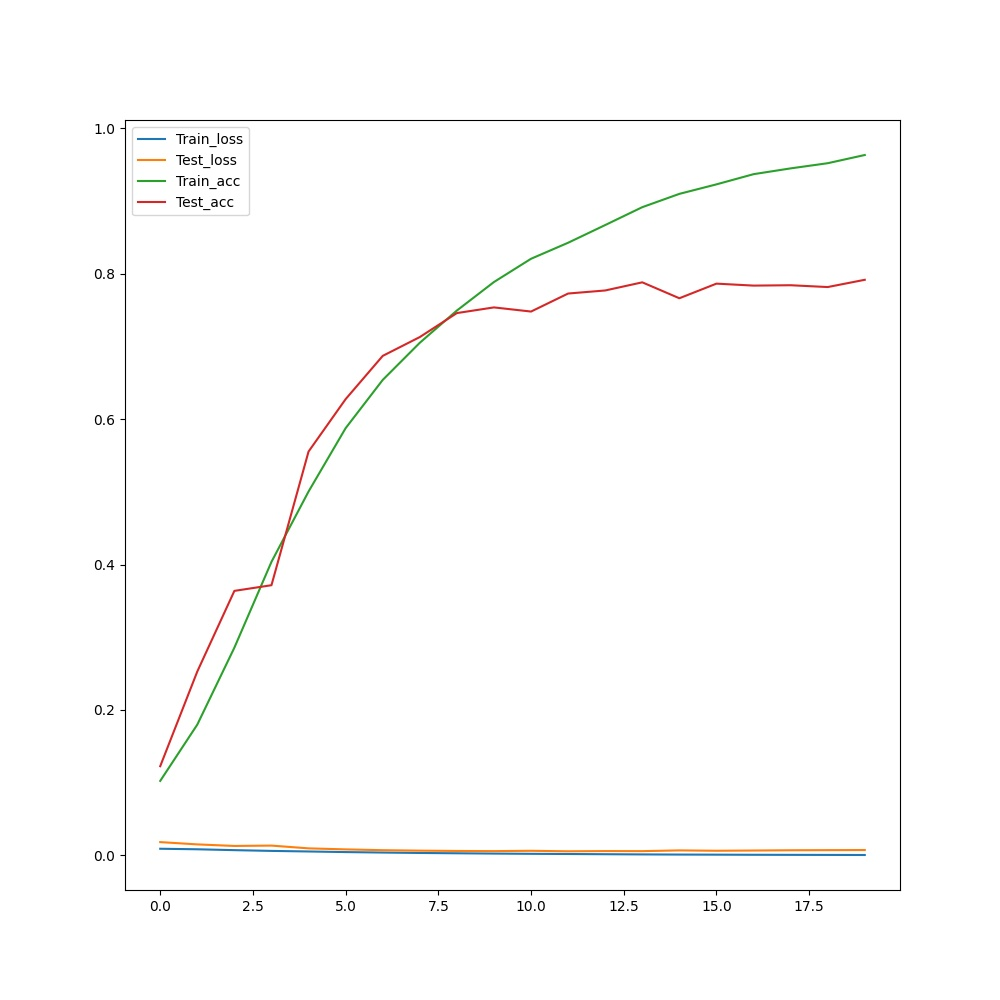
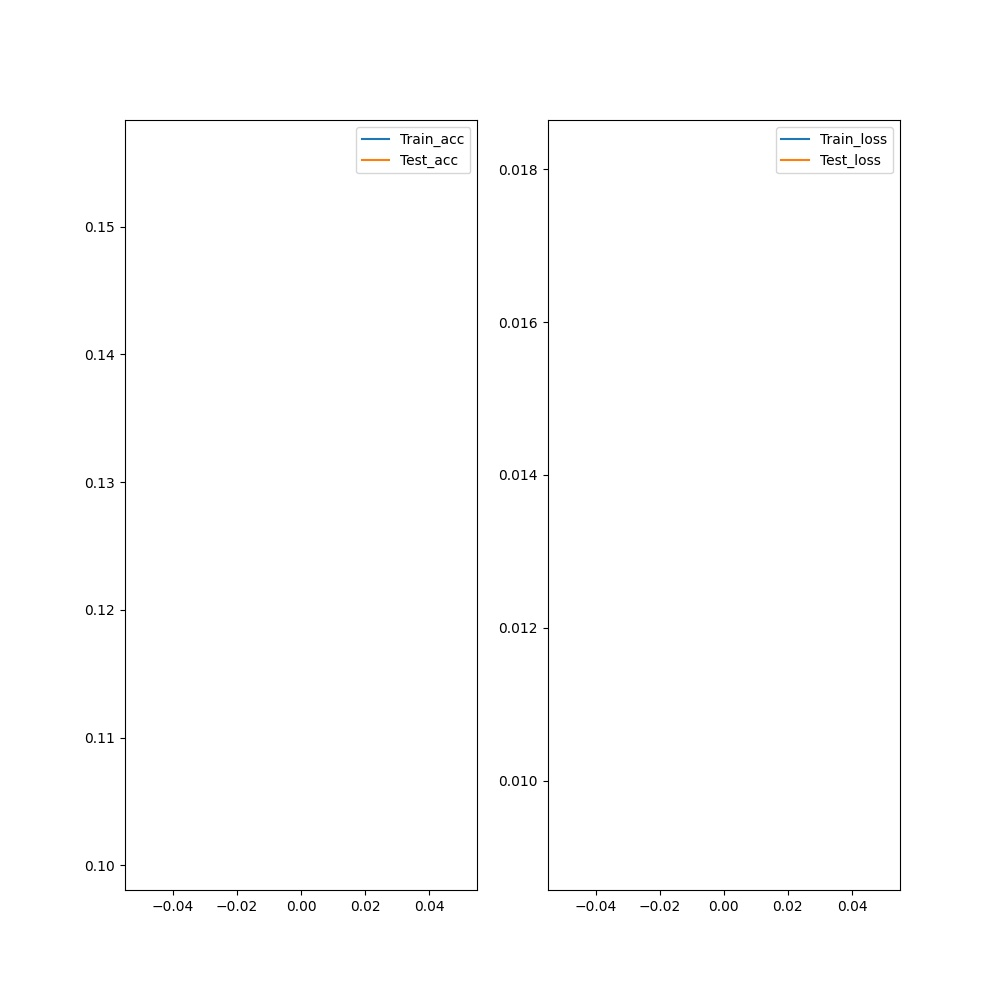
Update

diff --git a/3. Model/classification/VGG/train.py b/3. Model/classification/VGG/train.py
@@ -1,4 +1,5 @@
 import argparse
+import os
 
 import torch
 import torch.nn as nn
@@ -11,8 +12,7 @@ from torchvision.datasets import CIFAR10, MNIST
 import matplotlib.pyplot as plt
 
 from model import VGG
-from utils import save_result
-
+from utils import save_result, make_folder
 
 def parse_opt():
     parser = argparse.ArgumentParser()
@@ -28,7 +28,7 @@ def parse_opt():
     parser.add_argument('--momentum', help='Momentum', default=0.9, type=float)
     parser.add_argument('--cuda', help='Using GPU', default=True, type=bool)
     parser.add_argument('--save_result', help='Save Result of Train&Test', default=True, type=bool)
-    parser.add_argument('--save_folder', help='Directory of Saving weight', default='', type=str)
+    parser.add_argument('--save_folder', help='Directory of Saving weight', default='train0', type=str)
     opt = parser.parse_args()
     
     return opt
@@ -54,7 +54,7 @@ def train(model, dataloader, optimizer, loss_func, device, e):
         iter_loss.append(loss.item())
         corrects += sum(outputs.argmax(axis=1) == labels).item()
 
-        if (i+1) % 40 == 0:
+        if ((i+1) % 40 == 0) or ((i+1) == len(dataloader)) :
             print(f'Iter[{i+1}/{len(dataloader)}] --- Loss: {sum(iter_loss)/data_size:0.4} --- Accuracy: {corrects/data_size:0.2}')
     return [sum(iter_loss)/data_size, corrects/data_size]
 
@@ -82,6 +82,11 @@ def test(model, dataloader, loss_func, device, e):
             
         
 def main(opt):
+    # make folder
+    base_path = 'result'
+    os.makedirs(base_path, exist_ok=True)
+    result_path = make_folder(base_path, opt.save_folder)
+    print(result_path)
     
     datasets = {
         'mnist': r'C:\Users\gjust\Documents\Github\data',
@@ -123,21 +128,19 @@ def main(opt):
     loss_func = nn.CrossEntropyLoss()
     
     # Training
-    trian_result, test_result = [], []   
+    train_result, test_result = [], []   
     best = 0
     for e in range(opt.epoch):
-        
         train_result += train(model, train_loader, optimizer, loss_func, device, e)
-        
         test_result += test(model, test_loader, loss_func, device, e)
-        
-        if test_result[-1][1] > best:
+
+        if test_result[1::2][-1] > best:
             print('Saving Model....')
-            torch.save(model, f'weights/{opt.model}.pth')
-            best = test_result[-1][1]
+            torch.save(model, f'{result_path}/{opt.model}.pth')
+            best = test_result[1::2][-1]
             
         if opt.save_result:
-            save_result(train_result, test_result)
+            save_result(train_result, test_result, result_path)
         
 if __name__ == '__main__':
     opt = parse_opt()

diff --git a/3. Model/classification/VGG/utils.py b/3. Model/classification/VGG/utils.py
@@ -1,14 +1,16 @@
+import os
+
 import matplotlib.pyplot as plt
 
-def save_result(train_result, test_result):
+def save_result(train_result, test_result, result_path):
     
     train_loss = train_result[0::2]
     train_acc = train_result[1::2]
     test_loss = test_result[0::2]
     test_acc = test_result[1::2]
     
-    plt.figure(figsize=(10,10))
-    
+    plt.figure(figsize=(12,7))
+    print(train_loss)
     plt.subplot(1,2,1)
     plt.plot(train_acc)
     plt.plot(test_acc)
@@ -20,8 +22,24 @@ def save_result(train_result, test_result):
     plt.legend(['Train_loss', 'Test_loss'])
     
     print('Saving Result....')
-    plt.savefig('result.jpg')
+    plt.savefig(f'{result_path}/result.jpg')
     
     return None
     
+    
+def make_folder(base_path, folder):
+    os.makedirs(f'./{base_path}', exist_ok=True)
+    try:
+        os.mkdir(f'./{base_path}/{folder}')
+        new_folder = f'./{base_path}/{folder}'
+        
+    except:
+        exist_folders = os.listdir(f'./{base_path}')
+        exist_folders.sort(key=lambda x: x[-1])
+        last_num = exist_folders[-1][-1]
+        new_num = int(last_num) + 1
+        new_folder = f'./{base_path}/train' + str(new_num)
+        os.mkdir(new_folder)
+        
+    return new_folder
     
